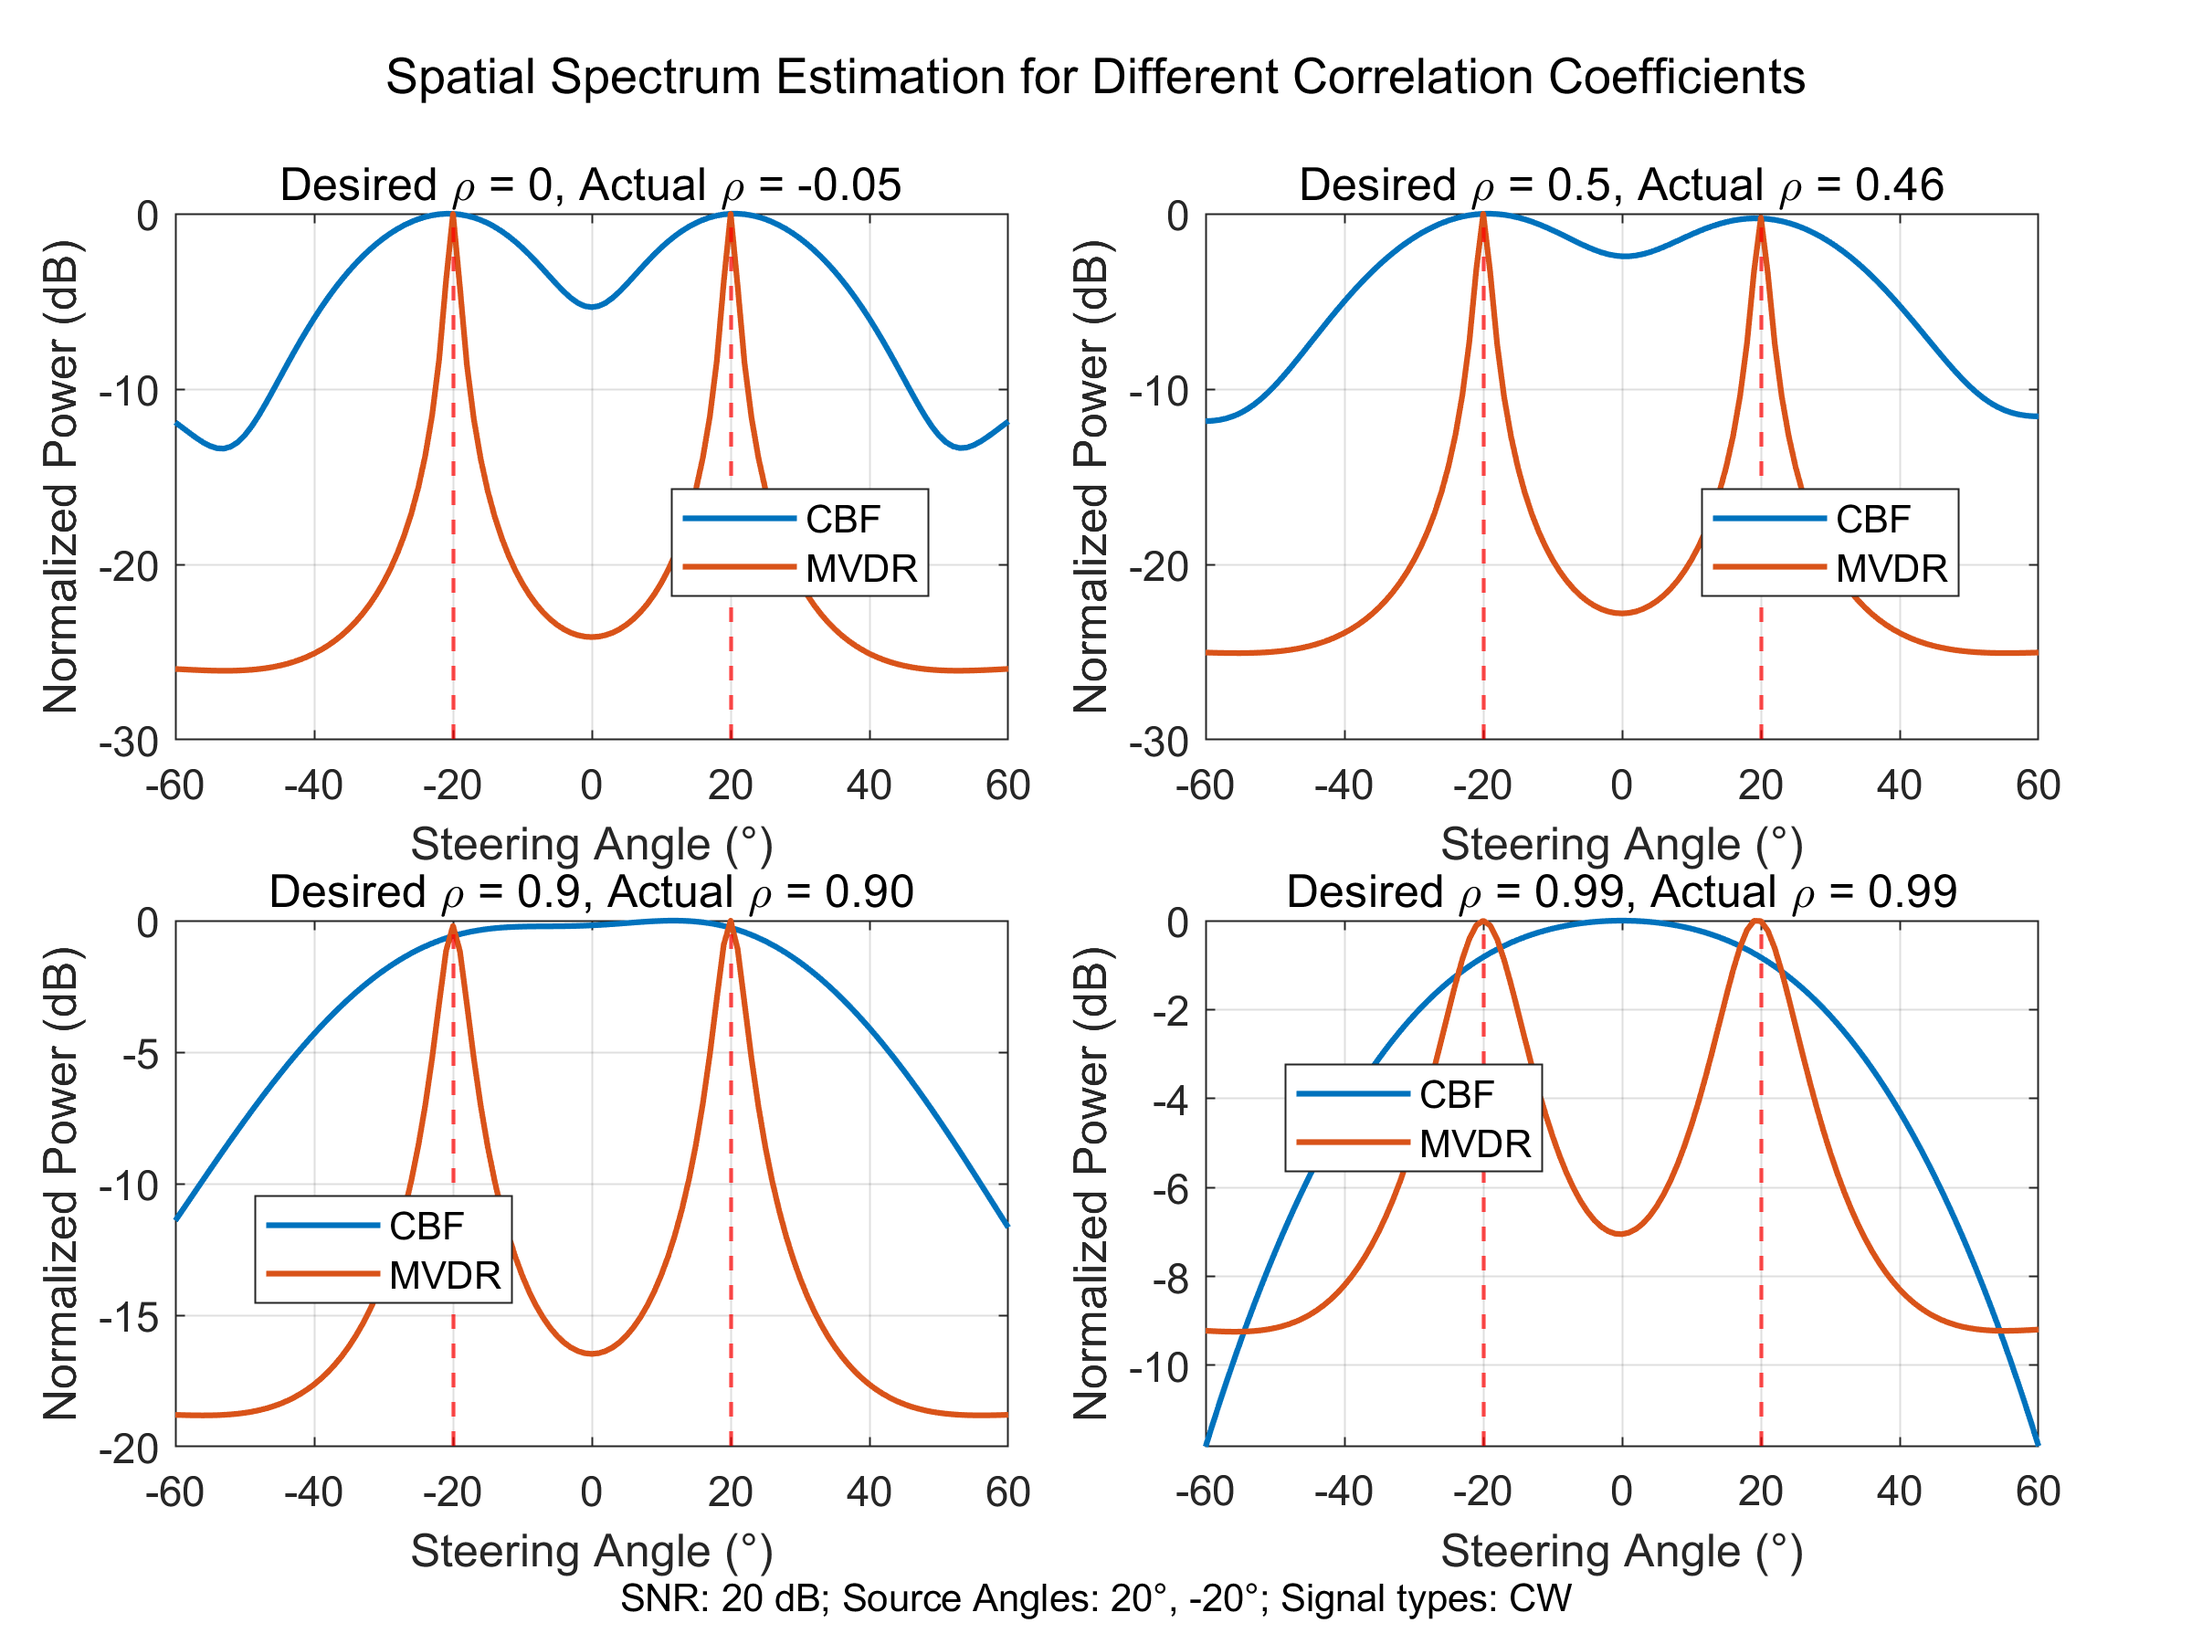
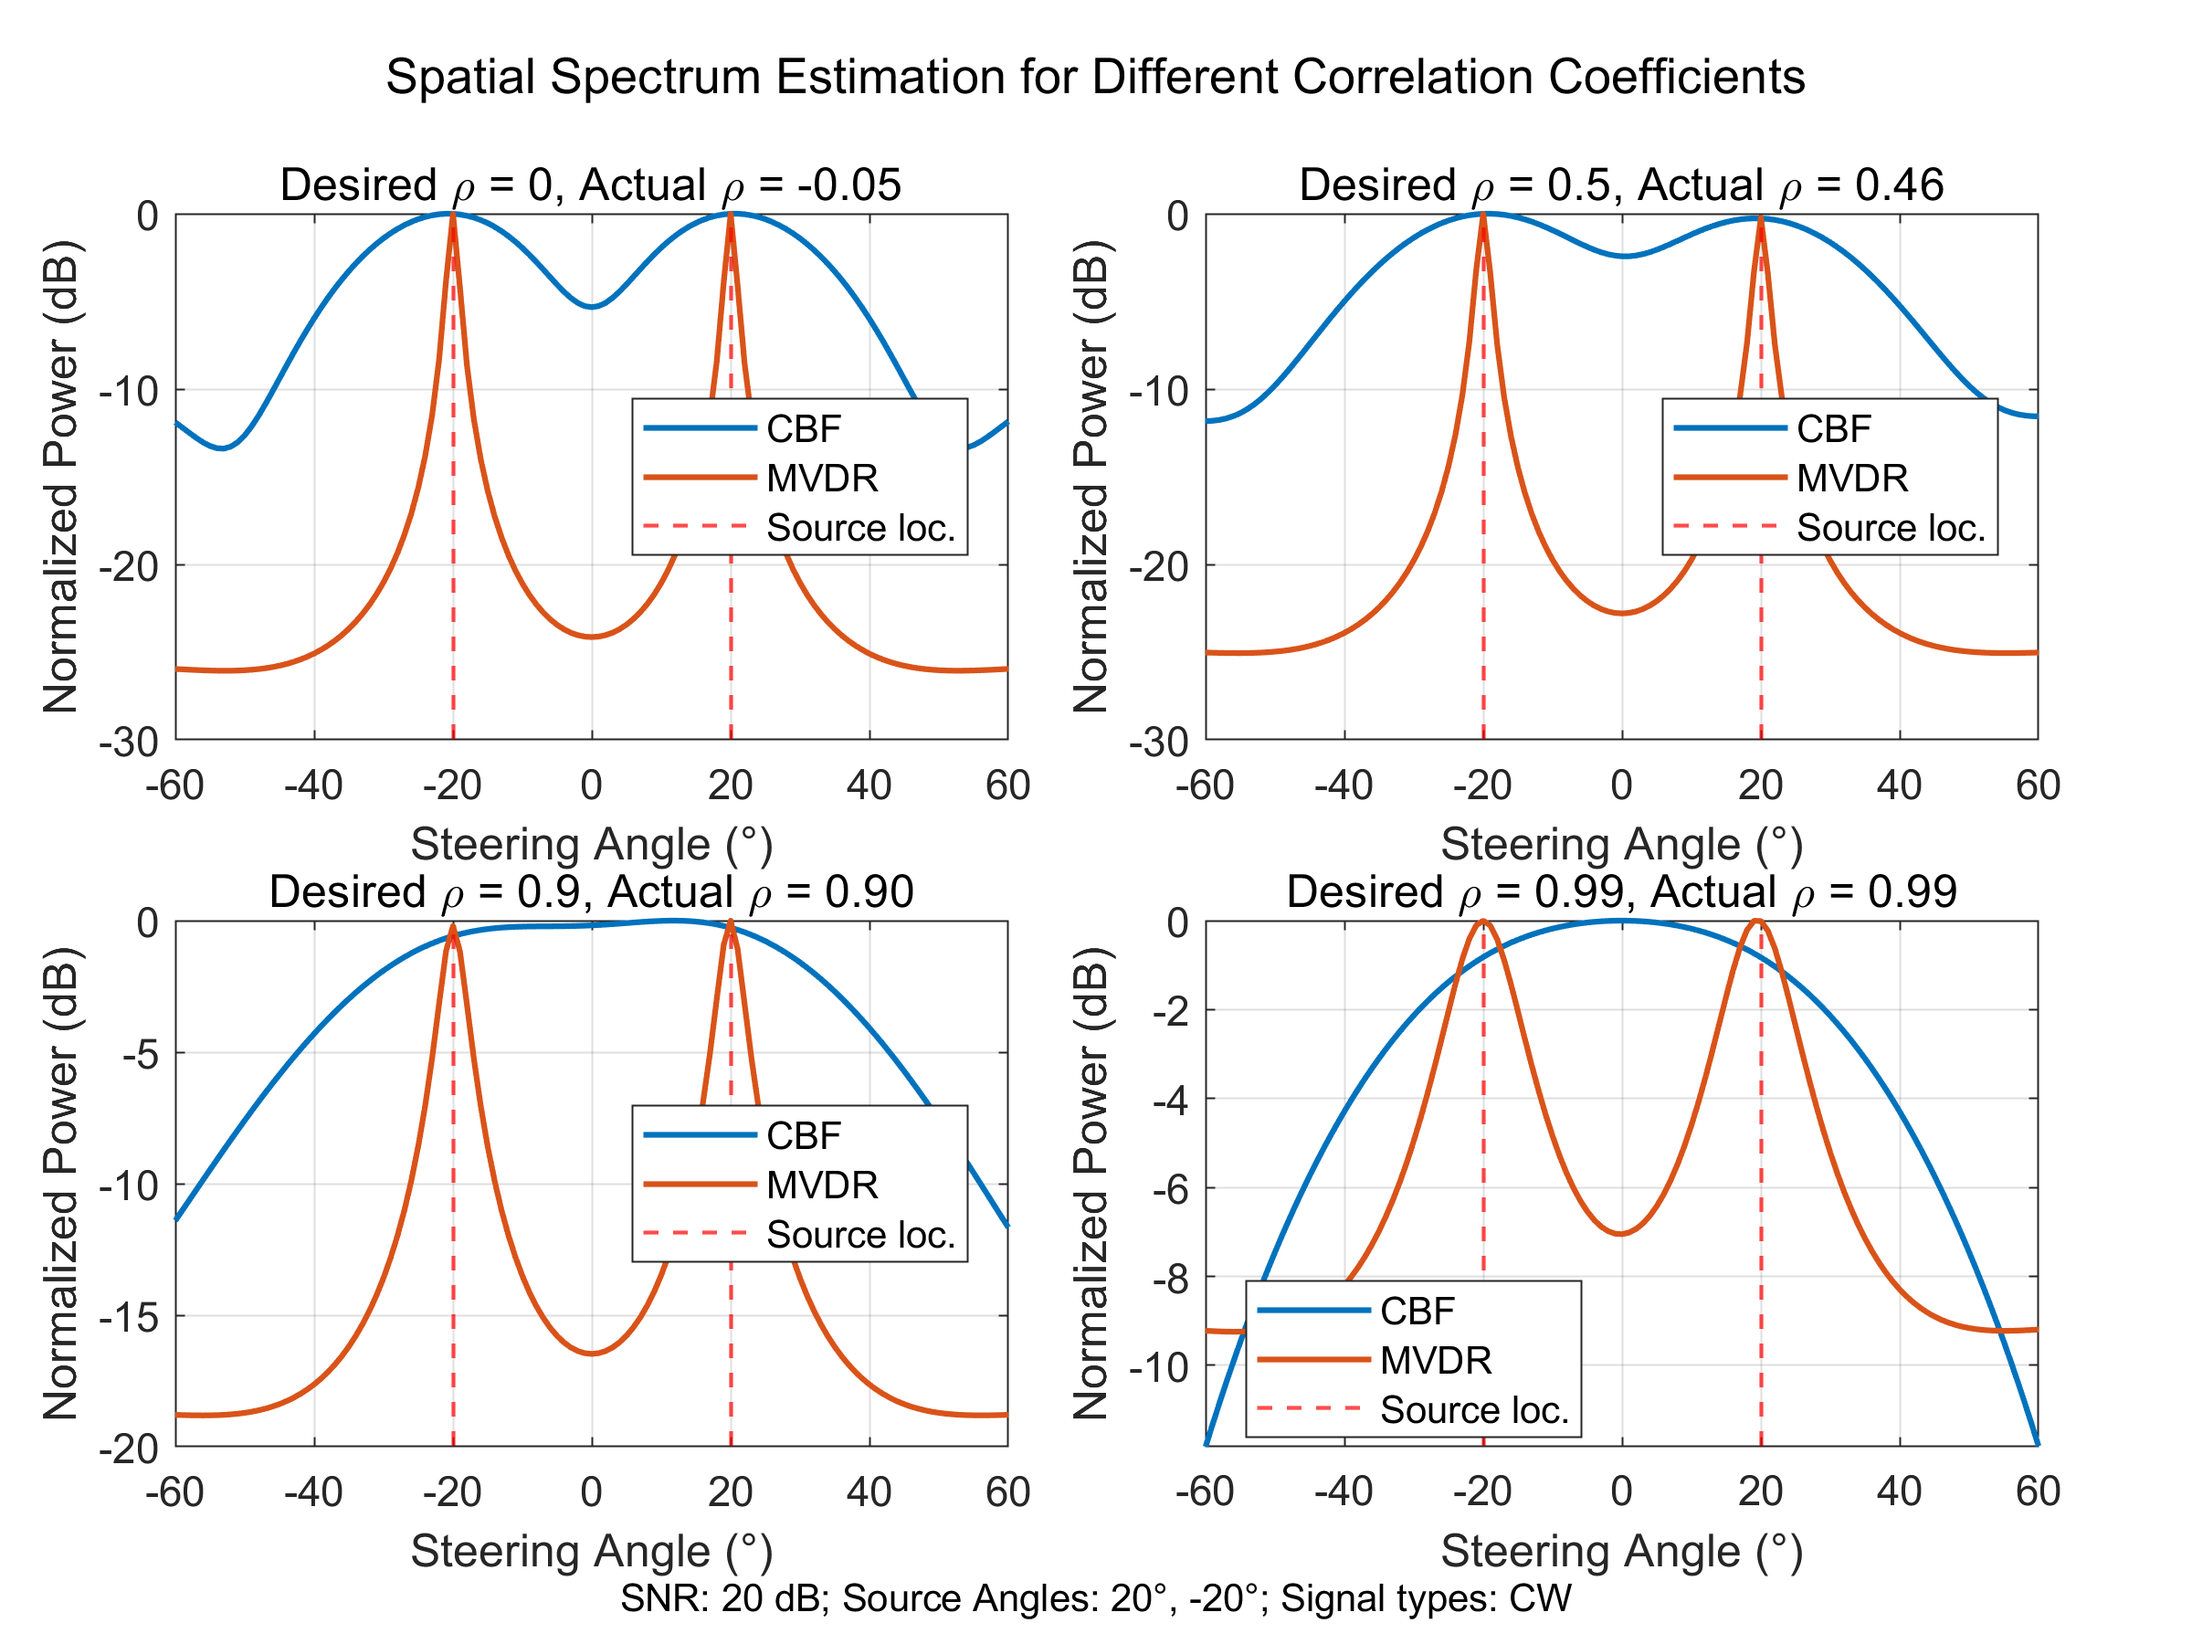
add source locations to legend

diff --git a/dsp/scripts/cbf_mvdr_sim.m b/dsp/scripts/cbf_mvdr_sim.m
@@ -87,7 +87,7 @@ for idx = 1:length(snr_values)
     % Add red dotted vertical lines at source angles
     xline(ang1, 'r--', 'LineWidth', 1);
     xline(ang2, 'r--', 'LineWidth', 1);
-    legend('CBF', 'MVDR', 'Location', 'best', 'FontSize', FontSize - 2);
+    legend('CBF', 'MVDR', 'Source loc.', 'Location', 'best', 'FontSize', FontSize - 2);
     xlabel(['Steering Angle ('  char(176) ')'], 'FontSize', FontSize - 1);
     ylabel('Normalized Power (dB)', 'FontSize', FontSize - 1);
     title(['SNR = ', num2str(snr), ' dB'], 'FontSize', FontSize, 'FontWeight', 'normal');
@@ -167,7 +167,7 @@ for idx = 1:length(source_spacing_values)
     % Add red dotted vertical lines at source angles
     xline(ang1, 'r--', 'LineWidth', 1);
     xline(ang2, 'r--', 'LineWidth', 1);
-    legend('CBF', 'MVDR', 'Location', 'best', 'FontSize', FontSize - 2);
+    legend('CBF', 'MVDR', 'Source loc.', 'Location', 'best', 'FontSize', FontSize - 2);
     xlabel(['Steering Angle ('  char(176) ')'], 'FontSize', FontSize - 1);
     ylabel('Normalized Power (dB)', 'FontSize', FontSize - 1);
     title(['Source Spacing = ', num2str(spacing), '°'], 'FontSize', FontSize, 'FontWeight', 'normal');
@@ -289,7 +289,7 @@ for idx = 1:length(signal_types)
     % Add red dotted vertical lines at source angles
     xline(ang1, 'r--', 'LineWidth', 1);
     xline(ang2, 'r--', 'LineWidth', 1);
-    legend('CBF', 'MVDR', 'Location', 'best', 'FontSize', FontSize - 2);
+    legend('CBF', 'MVDR', 'Source loc.', 'Location', 'best', 'FontSize', FontSize - 2);
     xlabel(['Steering Angle ('  char(176) ')'], 'FontSize', FontSize - 1);
     ylabel('Normalized Power (dB)', 'FontSize', FontSize - 1);
     title(['Signal Type: ', sig_type], 'FontSize', FontSize, 'FontWeight', 'normal');
@@ -409,7 +409,7 @@ for idx = 1:length(gain_max_deviation_values)
     xline(ang2, 'r--', 'LineWidth', 1);
 
     % Adjust legend and labels
-    legend('CBF', 'MVDR', 'Location', 'best', 'FontSize', FontSize - 2);
+    legend('CBF', 'MVDR', 'Source loc.', 'Location', 'best', 'FontSize', FontSize - 2);
     xlabel(['Steering Angle ('  char(176) ')'], 'FontSize', FontSize - 1);
     ylabel('Normalized Power (dB)', 'FontSize', FontSize - 1);
     title(['Gain Dev. = ', num2str(gain_max_dev_db), ' dB'], 'FontSize', FontSize, 'FontWeight', 'normal');
@@ -497,7 +497,7 @@ for idx = 1:length(rho_values)
     % Add red dotted vertical lines at source angles
     xline(ang1, 'r--', 'LineWidth', 1);
     xline(ang2, 'r--', 'LineWidth', 1);
-    legend('CBF', 'MVDR', 'Location', 'best', 'FontSize', FontSize - 2);
+    legend('CBF', 'MVDR', 'Source loc.', 'Location', 'best', 'FontSize', FontSize - 2);
     xlabel(['Steering Angle (' char(176) ')'], 'FontSize', FontSize - 1);
     ylabel('Normalized Power (dB)', 'FontSize', FontSize - 1);
     title(['Desired \rho = ', num2str(rho), ', Actual \rho = ', sprintf('%.2f', rho_est)], ...
